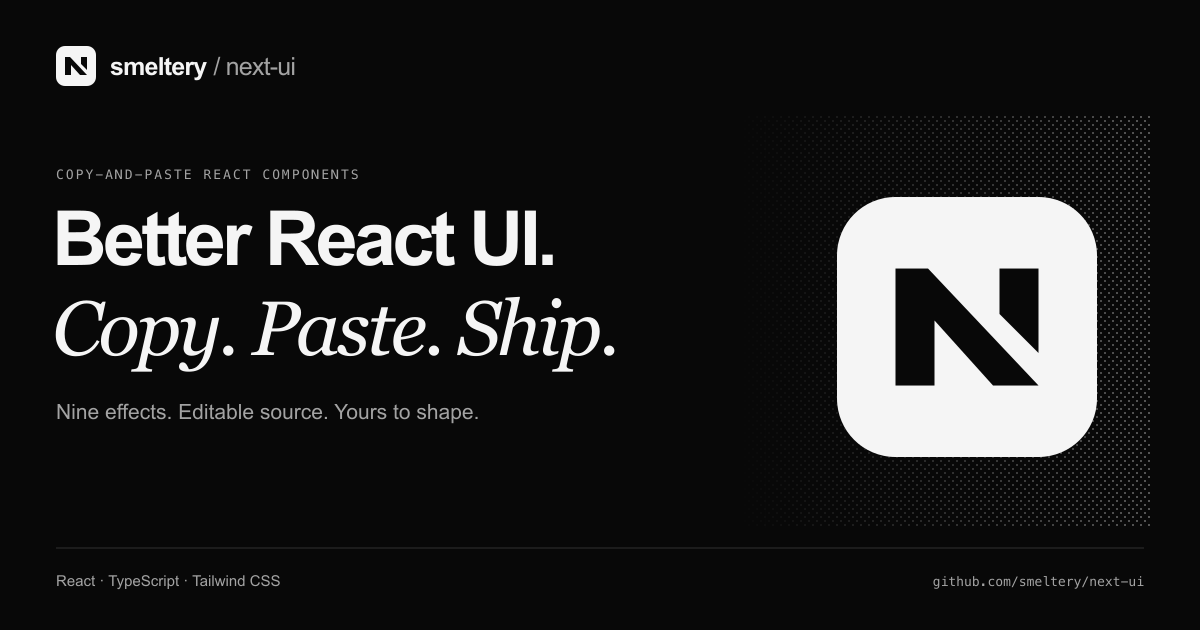
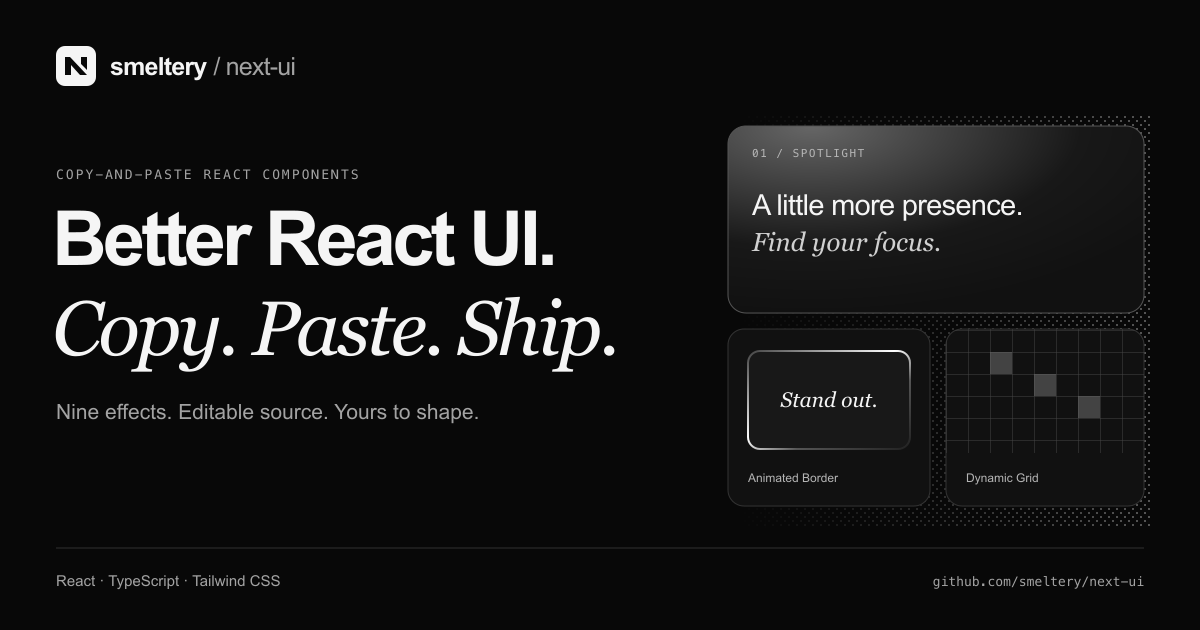
feat: showcase component effects in the social preview

Changed region(s): [[0.5858, 0.181, 0.9558, 0.8143], [0.6167, 0.754, 0.7092, 0.7841]]

diff --git a/app/brand/page.tsx b/app/brand/page.tsx
@@ -73,7 +73,7 @@ export default function BrandPage() {
             width="1200"
             height="630"
             loading="lazy"
-            alt="Next UI social preview: Better React UI. Copy. Paste. Ship. Beside the geometric N mark."
+            alt="Next UI social preview: Better React UI. Copy. Paste. Ship. Beside Spotlight, Animated Border, and Dynamic Grid previews."
           />
         </figure>
       </section>

diff --git a/app/layout.tsx b/app/layout.tsx
@@ -23,7 +23,7 @@ export const metadata: Metadata = {
         url: "/brand/og.png",
         width: 1200,
         height: 630,
-        alt: "Next UI: Better React UI. Copy. Paste. Ship. Nine editable React components."
+        alt: "Next UI: Better React UI. Copy. Paste. Ship. Spotlight, Animated Border, and Dynamic Grid component previews."
       }
     ]
   },
